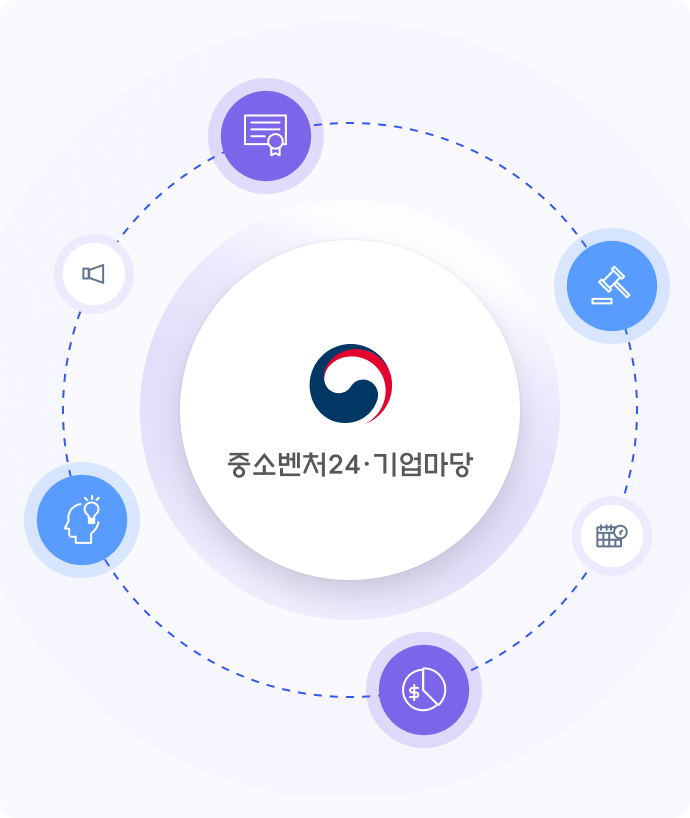
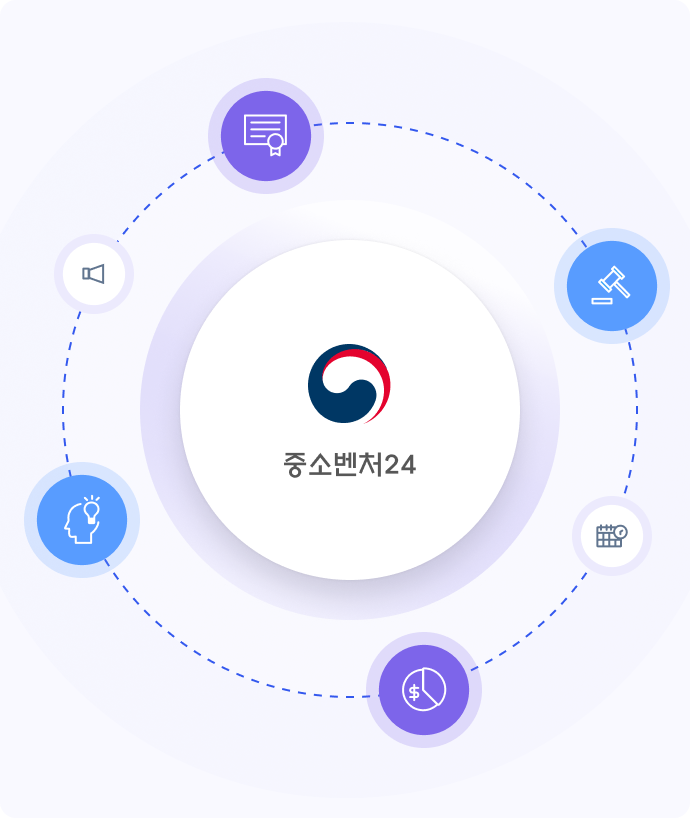
docs: 퍼블리싱 -UI-USR-L-520 검색결과 추가작업 완료, 로고 변경

Changed region(s): [[0.3348, 0.5501, 0.7, 0.5807], [0.5174, 0.4279, 0.5783, 0.5196], [0.4261, 0.4279, 0.487, 0.489]]

diff --git a/src/publishing/UI-USR-L-520.jsx b/src/publishing/UI-USR-L-520.jsx
@@ -2,6 +2,7 @@ import { useState } from 'react';
 import SideNavigation from "../components/ui/SideNavigation";
 import Breadcrumb from "../components/ui/Breadcrumb";
 import Datepicker from "../components/ui/Datepicker";
+import Pagination from '@components/ui/Pagination';
 
 const UI_USR_L_520 = () => {
 
@@ -138,32 +139,70 @@ const UI_USR_L_520 = () => {
             <li>검색 결과 <span className="point">0</span>건</li>
           </ul>
           <ul className="sch-sort">
-             <li>
-                <strong className="sort-label"><label htmlFor="search_result_count">목록 표시 개수</label></strong>
-                <select className="krds-form-select-sort" id="search_result_count">
-                  <option>10개</option>
-                </select>
-              </li>
+            <li>
+              <strong className="sort-label"><label htmlFor="search_result_count">목록 표시 개수</label></strong>
+              <select className="krds-form-select-sort" id="search_result_count">
+                <option>10개</option>
+              </select>
+            </li>
           </ul>
-          </div>
-
-        {/* table [S] */}
-        <div className="krds-table-wrap">
-        <table className="tbl col data">
-          <caption>나의 알림 목록 표. 번호, 발송일시, 구분, 내용 정보가 제공됨.</caption>
-          <colgroup>
-            <col />
-          </colgroup>
-          <tbody className="no-data">
-            {/* 데이터 없을 시 */}
-            <tr>
-              <td colSpan={3} className="ac">등록된 데이터가 없습니다.</td>
-            </tr>
-          </tbody>
-          </table>
         </div>
-        {/* table [E] */}
 
+        {/* 2026-03-18 추가 */}
+        {/* 데이터 있을 시 */}
+        <ul className="krds-structured-list type-full">
+          <li className="structured-item">
+            <div className="in">
+              <div className="card-body">
+                <div className="c-text">
+                  <div className="flex-row">
+                    <div className="krds-badge-wrap">
+                      <span className="krds-badge bg-light-danger">신청중</span>
+                    </div>
+                    <p className="c-tit no-icon onellipsis-1 small">2026년 중동 특화 긴급 물류바우처 사업 참여기업 모집 공고</p>
+                  </div>
+                  <p className="on-list-btm">
+                    <span><strong>중소벤처기업진흥공단</strong></span>
+                    <span><strong>기업마당</strong></span>
+                    <span><strong>신청일</strong> 2025-03-35</span>
+                  </p>
+                </div>
+                <div className="c-btn">
+                  <button type="button" className="krds-btn primary medium">상세조회</button>
+                </div>
+              </div>
+            </div>
+          </li>
+          <li className="structured-item">
+            <div className="in">
+              <div className="card-body">
+                <div className="c-text">
+                  <div className="flex-row">
+                    <div className="krds-badge-wrap">
+                      <span className="krds-badge bg-light-primary">신청완료</span>
+                    </div>
+                    <p className="c-tit no-icon onellipsis-1 small">2026년 중동 특화 긴급 물류바우처 사업 참여기업 모집 공고</p>
+                  </div>
+                  <p className="on-list-btm">
+                    <span><strong>중소벤처기업진흥공단</strong></span>
+                    <span><strong>기업마당</strong></span>
+                    <span><strong>신청일</strong> 2025-03-35</span>
+                  </p>
+                </div>
+                <div className="c-btn">
+                  <button type="button" className="krds-btn primary medium">상세조회</button>
+                </div>
+              </div>
+            </div>
+          </li>
+        </ul>
+
+        {/* 데이터 없을 시 */}
+        {/*  <div className="on-no-data">
+          <p>등록된 데이터가 없습니다.</p>
+        </div> */}
+        <Pagination /> 
+        
       </div> 
     </>
   );

diff --git a/styles/onCommon_2.css b/styles/onCommon_2.css
@@ -1485,6 +1485,28 @@ button.aichatButton.active {
   padding-left: 30px;
 }
 
+.krds-structured-list.type-full .card-body .flex-row {
+  display: flex;
+  gap: 8px;
+}
+.krds-structured-list .card-body .c-tit.small {
+  font-size: 19px;
+}
+.krds-structured-list.type-full .card-body .flex-row .krds-badge-wrap {
+  flex-shrink: 0;
+}
+
+.on-no-data {
+  padding: 14px 0;
+  text-align: center;
+  border-top: 1px solid #B1B8BE;
+  border-bottom: 1px solid #B1B8BE;
+}
+.on-no-data p {
+  color: #464C53;
+}
+
+
 /* util  */
 .mt-8 {
   margin-top: 8px;

diff --git a/styles/onCommon.css b/styles/onCommon.css
@@ -4438,6 +4438,15 @@ textarea.krds-input::placeholder {
   #krds-header .header-container .logo-platform {
     display: none;
   }
+  .platform-bi-wrap .default-design-box img {
+    width: 126px;
+  }
+  .platform-bi-wrap .default-design-box.space img.img-vertical {
+    width: 84px;
+  }
+  .platform-bi-wrap .default-design-box.space img.img-horizontal {
+    width: 156px;
+  }
 }
 .on-searchoption-toggle {
   display: flex;
